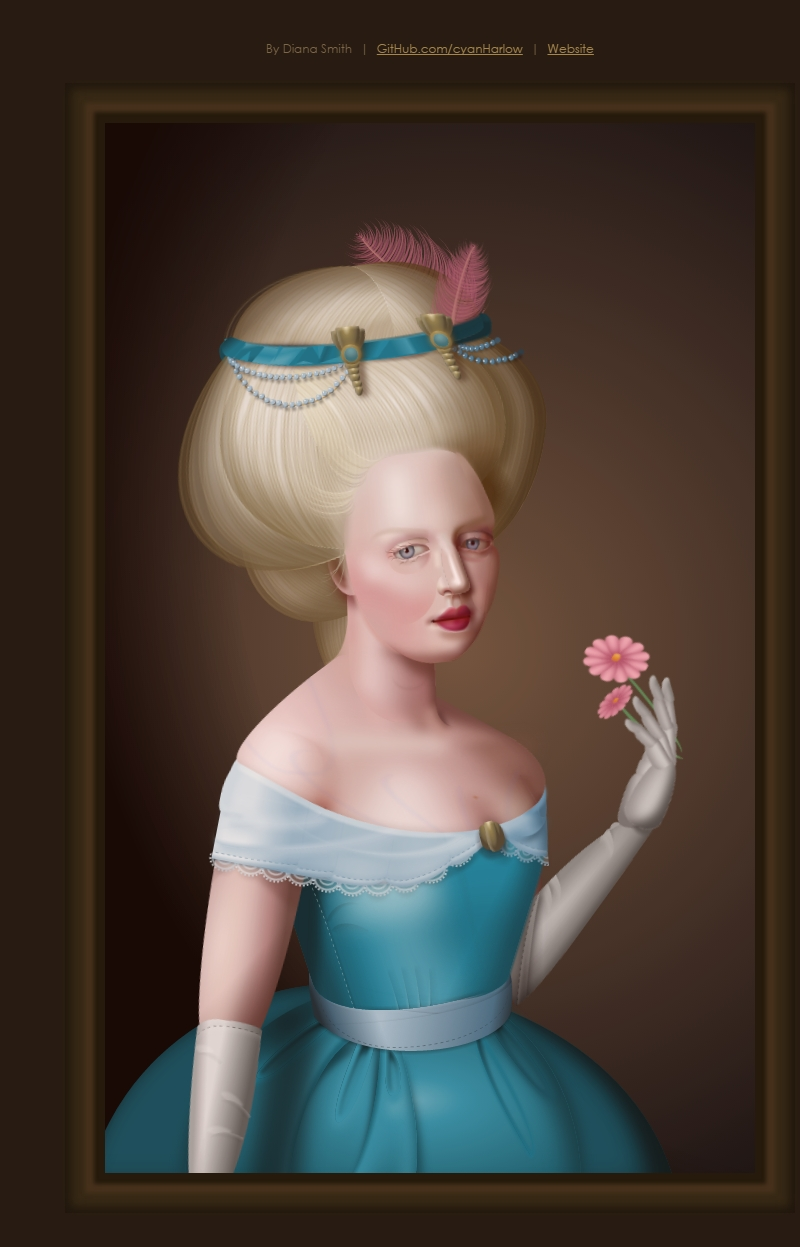
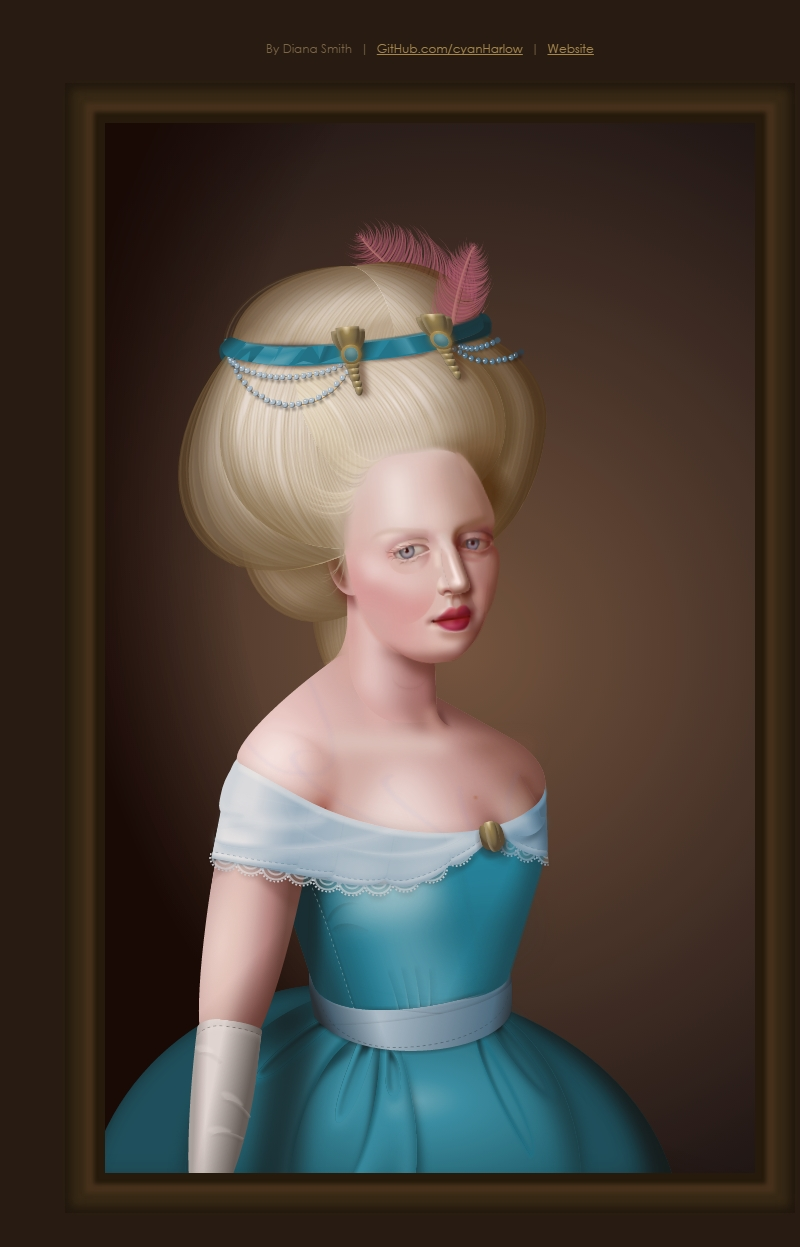
1121

Changed region(s): [[0.625, 0.4876, 0.875, 0.7923]]

diff --git a/index.html b/index.html
@@ -298,7 +298,7 @@
                 <div class="body">
                     <div class="skirtback"></div>
 
-                    <div class="leftarm">
+                    <div class="leftarm" style="display: none;">
                         <div class="upperarm">
                             <div class="skin">
                                 <div class="uppershadow"></div>
